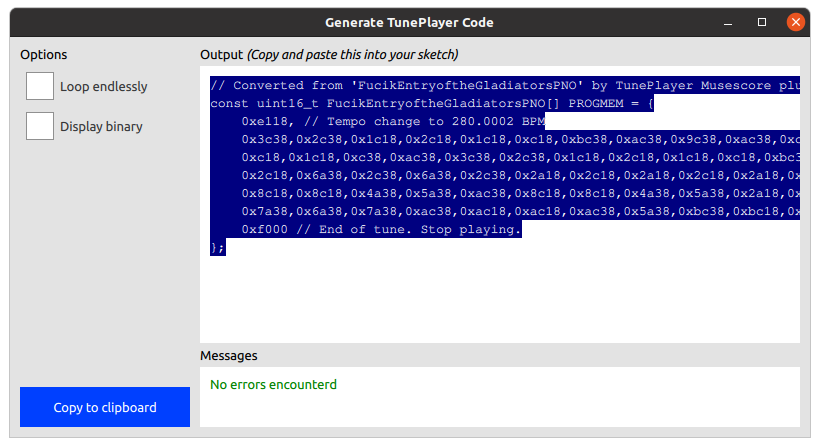
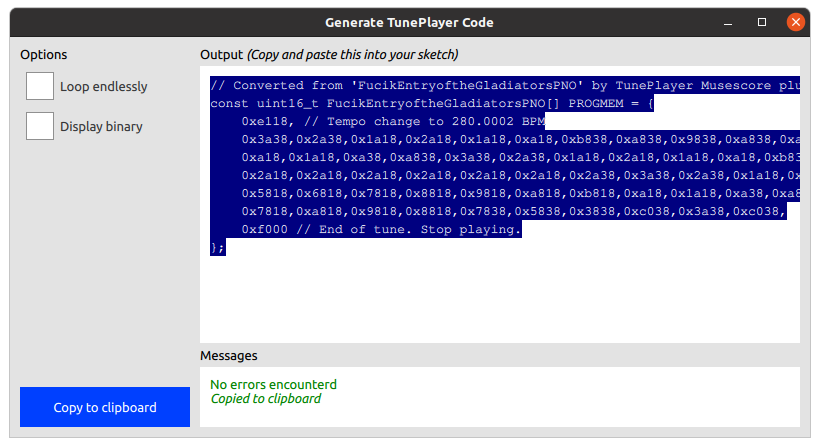
Fixed wrong octave issue, added documentation

diff --git a/extras/TunePlayer_MusescorePlugin.qml b/extras/TunePlayer_MusescorePlugin.qml
@@ -216,7 +216,7 @@ MuseScore {
             console.log(note);
             if (notePitchInput < 128) { //It makes sound
                   var notePitch = notePitchInput % 12;
-                  var noteOctave = Math.floor(notePitchInput / 8) - 4; // -2 to get high enough
+                  var noteOctave = Math.floor(notePitchInput / 12) - 2; // 2 * 12 is midi note 24 start
 
             } else {
                   var notePitch = 12; //Rest

diff --git a/src/TunePlayer.h b/src/TunePlayer.h
@@ -40,7 +40,7 @@
 // Effects
 #define EFFECT_NONE 0
 #define EFFECT_STACCATO 1
-#define EFFECT_LEGARTO 2
+#define EFFECT_LEGATO 2
 
 /**
  * Main tune playing class
@@ -202,7 +202,7 @@ class TunePlayer {
                         // Octave and note are already set
                         // Also calculate the time the sound should be on
                         switch(effect) { //Claculate how much of the total time there should be sound - small gaps between notes.
-                            case EFFECT_LEGARTO:
+                            case EFFECT_LEGATO:
                                 noteData.playTime = 0;
                                 break;
                             case EFFECT_STACCATO:

diff --git a/extras/NoteStructure.md b/extras/NoteStructure.md
@@ -7,18 +7,130 @@ Each note or instruction is a 16 bit (2 byte) integer. There are currently 4 mai
 
 Notes are stored in an array. Where and how this array is stored is flexible and can be changed by using a different loader class.
 
+[This](https://newt.phys.unsw.edu.au/jw/notes.html) is a useful website on midi notes and frequencies.
+
+In general in the diagrams below, `1` represents an always on, true, 1, high... bit, `0` represents an always off, false, 0, low... bit and `*` does not matter and is currently not used. See the description below each diagram for italic letters.
+
 ## Notes and rests
 ![Diagram of meaning of bits in a note message](NoteDiagram.svg)
-TODO: Describe
+
+
+<details>
+  <summary>Note (<i>n</i>)</summary>
+A 4 bit number representing the note.
+
+|         Note          | Number |  Binary  |
+|:---------------------:|:------:|:--------:|
+|           C           |   0    | `0b0000` |
+|       C&#x266f;       |   1    | `0b0001` |
+|           D           |   2    | `0b0010` |
+| D&#x266f; / E&#x266d; |   3    | `0b0011` |
+|           E           |   4    | `0b0100` |
+|           F           |   5    | `0b0101` |
+| F&#x266f; / G&#x266d; |   6    | `0b0110` |
+|           G           |   7    | `0b0111` |
+| G&#x266f; / A&#x266d; |   8    | `0b1000` |
+|           A           |   9    | `0b1001` |
+| A&#x266f; / B&#x266d; |   10   | `0b1010` |
+|           B           |   11   | `0b1011` |
+|         Rest          |   12   | `0b1100` |
+
+A midi note (0-127) can be converted to a note using
+
+<p align="center"><i>note = midi % 12</i></p>
+</details>
+
+<details>
+  <summary>Octave (<i>o</i>)</summary>
+A 3 bit number representing the octave.
+
+| Octave | Binary  | Note Range |
+|:------:|:-------:|:----------:|
+|   0    | `0b000` |  C1 - B1   |
+|   1    | `0b001` |  C2 - B2   |
+|   2    | `0b010` |  C3 - B3   |
+|   3    | `0b011` |  C4 - B4   |
+|   4    | `0b100` |  C5 - B5   |
+|   5    | `0b101` |  C6 - B6   |
+|   6    | `0b110` |  C7 - B7   |
+|   7    | `0b111` |  C8 - B8   |
+
+A midi note (0-127) can be converted to an octave using
+<p align="center"><i>octave = </i>floor<i>(midi / 12) - 2</i></p>
+</details>
+
+<details>
+  <summary>Length (<i>l</i>)</summary>
+A 6 bit number representing the length of the note.
+
+By default, the length is the number of *1/8<sup>th</sup>* beats *-1*. For example, a crotchet (*1/4* note) is *8/8* beats, so in this case the length would be *7*.
+
+If the triplet mode bit is set, the length is now interpreted as the number of *1/12<sup>th</sup>* beats, allowing correct triplets to be represented.
+</details>
+
+<details>
+  <summary>Effect (<i>e</i>)</summary>
+<b>
+TODO:</b> This is still a work in progress. While it is implemented in the Arduino library, it is not in the Musescore plugin.
+
+Two bits for effects such as staccarto and legato notes.
+
+| Effect number | Binary |       Effect       | Fraction of note time played |
+|:-------------:|:------:|:------------------:|:----------------------------:|
+|       0       | `0b00` |        None        |           *7/8*\*            |
+|       1       | `0b01` |      Staccato      |            *1/2*             |
+|       2       | `0b10` |       Legato       |          Full time           |
+|       3       | `0b11` | *Currently unused* |              -               |
+
+\* According to the [PICAXE manual 2](https://picaxe.com/getting-started/picaxe-manuals/), *7/8* is the standard time for electronic music. From experimenting, attempting to play all notes for the full time just sounds weird and ties repeated notes.
+
+</details>
+
+<details>
+  <summary>Triplet mode (<i>t</i>)</summary>
+
+If this is 0 (off), the length is interpreted as being in *1/8<sup>th</sup>* beats. If this is 1 (on), the length is interpreted as being in *1/12<sup>th</sup>* beats.
+
+</details>
 
 ## Repeats
 ![Diagram of meaning of bits in a repeat message](RepeatDiagram.svg)
-TODO: Describe
+
+<details>
+  <summary>Number of repeats (todo) (<i>i</i>)</summary>
+
+Not currently implemented. Currently repeats once.
+</details>
+
+<details>
+  <summary>Number of messages to go back (<i>j</i>)</summary>
+
+The number of messages to go back.
+</details>
 
 ## Tempo setting
 ![Diagram of meaning of bits in a set tempo message](TempoDiagram.svg)
-TODO: Describe
+
+<details>
+  <summary>Effect (todo) (<i>f</i>)</summary>
+
+Not currently implemented
+</details>
+
+<details>
+  <summary>Tempo (<i>s</i>)</summary>
+
+A 10 bit number representing the tempo in beats per minute / 2. Double this for the actual tempo.
+
+<b>
+TODO:</b> Make this divided by one or carve out some bits to be used for some more settings, possibly pitch bend?
+</details>
 
 ## End of tune
 ![Diagram of meaning of bits in a tune end message](TuneEndDiagram.svg)
+
+<details>
+  <summary>Start over (<i>a</i>)</summary>
+
 If the least significant bit, *a*, is 1, the tune will be repeated from the beginning. If this bit is a 0, the library will stop playing when it reaches the end.
+</details>

diff --git a/README.md b/README.md
@@ -10,3 +10,5 @@ Have a look at the examples and class diagram in extras to get started.
 - [Musescore Plugin](extras/MusescorePlugin.md)
 - [API Reference](extras/API.md)
 - [Note structure](extras/NoteStructure.md)
+
+This library is inspired (but not compatible with) the [PICAXE tune command](https://picaxe.com/basic-commands/digital-inputoutput/tune/)
